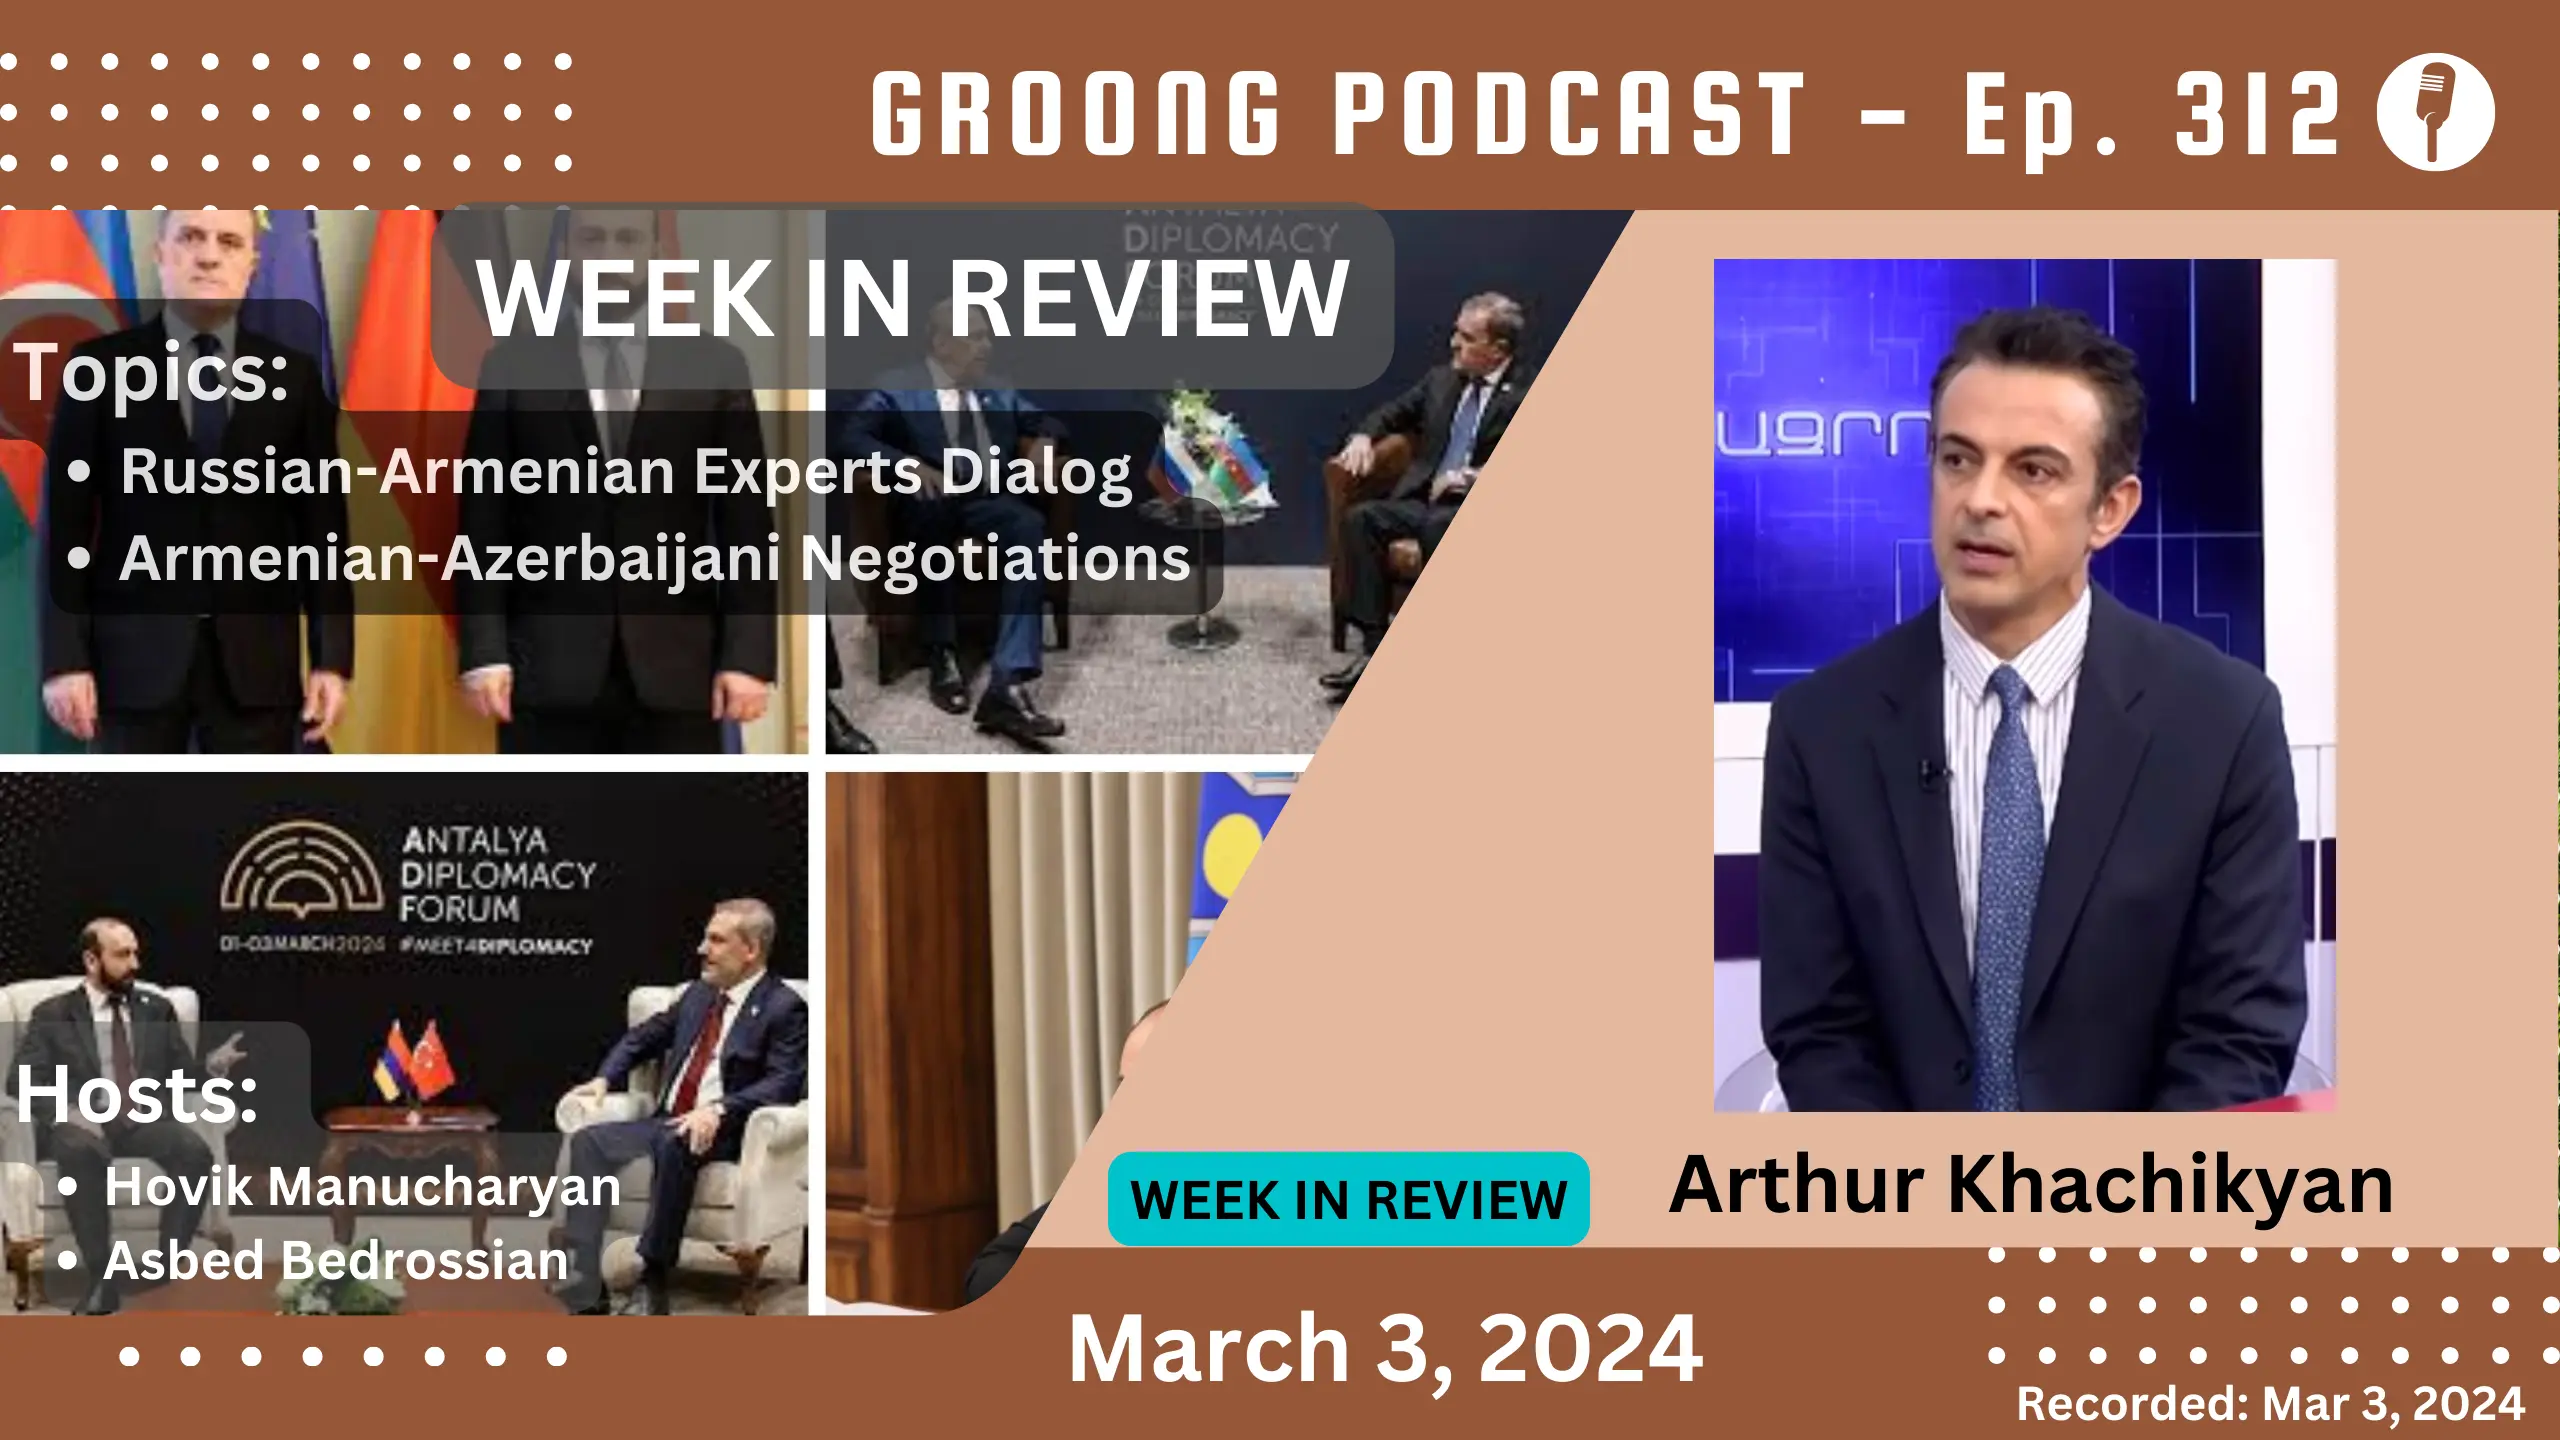
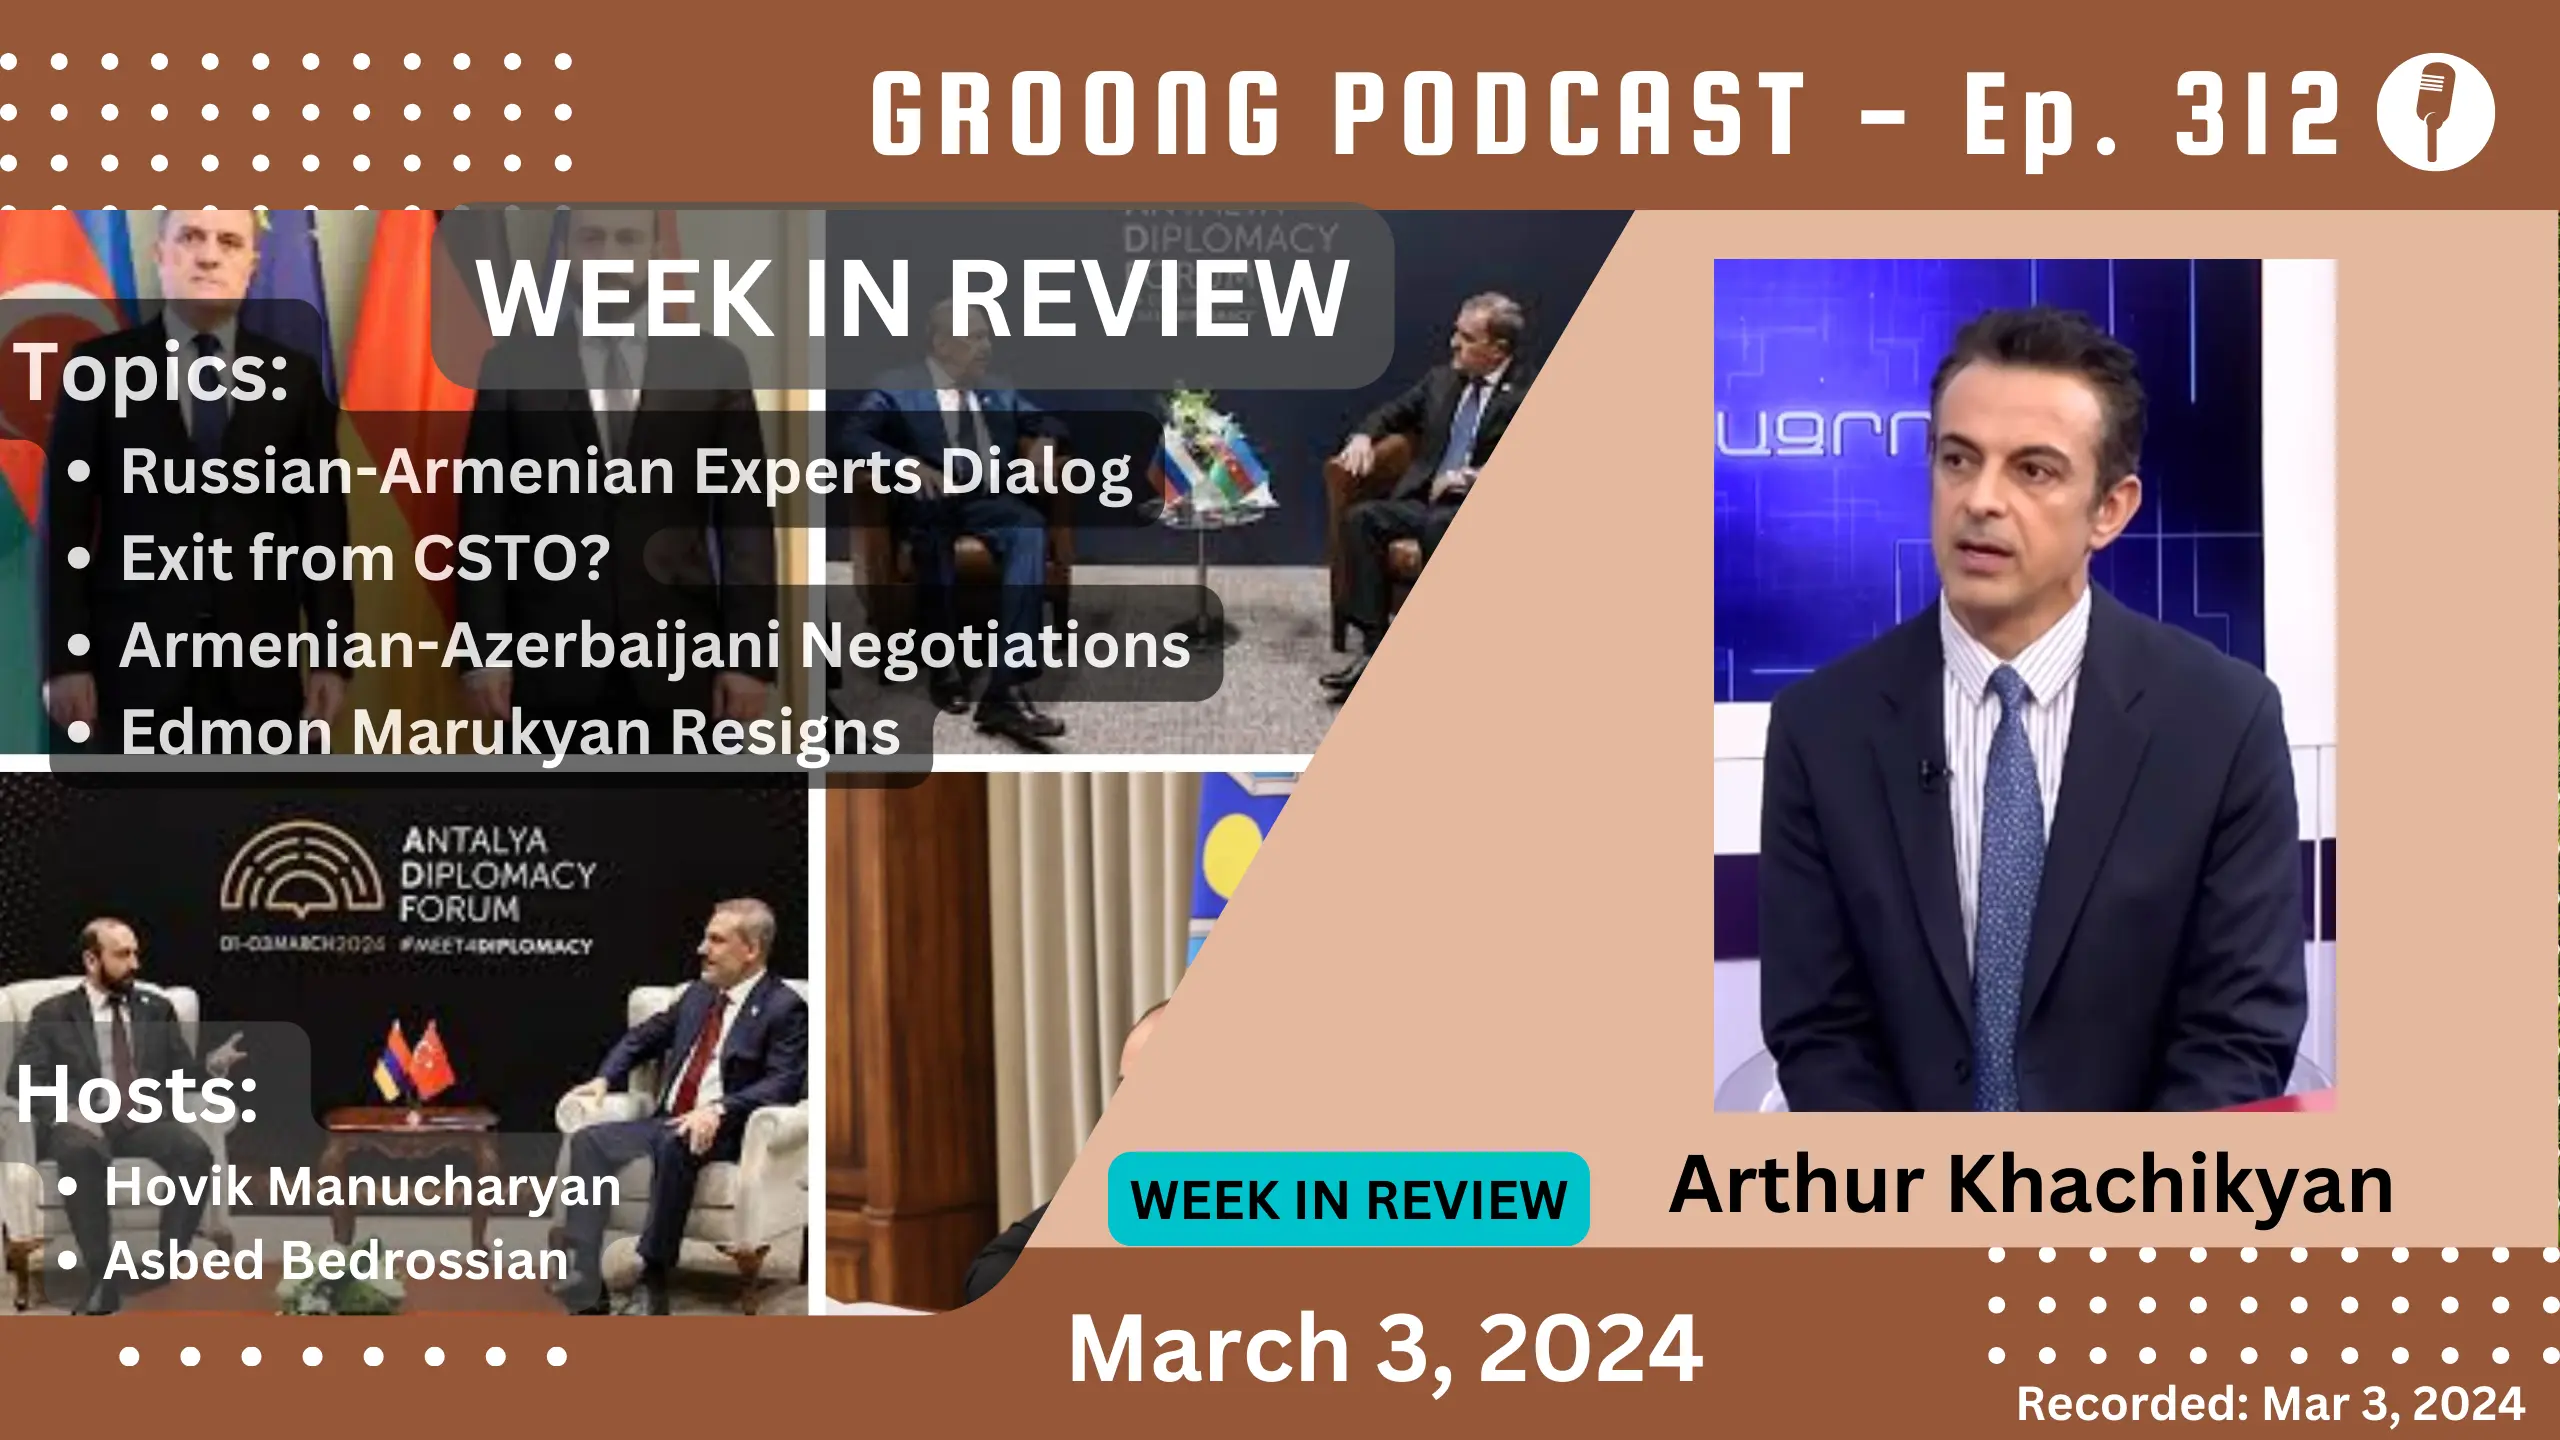
Content update ep 312

Changed region(s): [[0.0, 0.3438, 0.5, 0.5625]]

diff --git a/content/episode/312-arthur-khachikyan-russia-armenia-azerbaijan-relations-munich-antalya-turkey-normalization.md b/content/episode/312-arthur-khachikyan-russia-armenia-azerbaijan-relations-munich-antalya-turkey-normalization.md
@@ -23,7 +23,7 @@ explicit = "no"
 
 series = ["wir"]
 categories = ["Armenia", "Politics", "Poll"]
-tags = ["Armenian News", "Artsakh", "Nagorno Karabakh", "Azerbaijan", "Munich", "Antalya", "Turkey", "Arthur Khachikyan", "Ararat Mirzoyan", "Jeyhun Bayramov", "Sergei Lavrov", "Diplomacy Forum", "Negotiations", "Border", "Turkish Armenian Normalization"]
+tags = ["Armenian News", "Artsakh", "Nagorno Karabakh", "Azerbaijan", "Munich", "Antalya", "Turkey", "Arthur Khachikyan", "Ararat Mirzoyan", "Jeyhun Bayramov", "Sergei Lavrov", "Diplomacy Forum", "Negotiations", "Edmon Marukyan", "Vardan Ghukasyan", "Border", "Turkish Armenian Normalization", "Armenian Constitution", "Treaty", "Alexandropol", "Armenian Emigration", "Outmigration", "Le Figaro", "France", "Bastion", "APC", "Armored Personnel Carriers", "MI6", "CIA", "Richard Moore", "Georgia", "Kurds", "Fake Opposition", "Nikol Pashinyan", "Alen Simonyan"]
 
 Description = """
 
@@ -40,7 +40,87 @@ Episode 312 | Recorded: Mar 3, 2024"""
 
 +++
 
+## Expert Discussions on Russian - Armenian Relations
 
+Arthur last week we were talking with [Sergei Melkonian](https://podcasts.groong.org/guest/smelkonian) about the Russian-Armenian [experts dialogue](https://www.youtube.com/live/wZOA2IVtRmE?si=8Cb7dKrKOzCIfKAs) that was held in Yerevan on February 24, where Russian and Armenian experts discussed the state of relations between the two countries. You were also there, so we thought we’d ask you the same as we asked Sergei.
+
+**Question:**
+* What was your overall impression of the dialogue?
+
+According to some Russian experts on the panel, Russia is currently conducting a “damage control” policy with regard to Armenia. In other words, a passive policy. At the same time, some of the experts blamed Armenia for the worsening relations.
+
+**Questions:**
+* Were you able to detect any introspection by the Russians?
+* Do any of them accept that some of their own policies contributed to damaging the Armenian-Russian relationship?
+
+Sergei mentioned that Russian analysts generally agree that Russia’s decision to not support the Armenian opposition in 2021 was a mistake.
+
+**Question:**
+* Do you have more thoughts on that point that you can expand on?
+
+
+## Exit from CSTO?
+
+Just this past week, in [highly publicized comments](https://www.azatutyun.am/a/32841230.html) to the Armenian parliament, Pashinyan said that he was ready to pull out of the CSTO, and that the CSTO had become a “security threat” for Armenia. And to France24, he said that Russia [fomented unrest](https://www.azatutyun.am/a/32841177.html) in Armenia after the ethnic cleansing of Artsakh in September 2023, hoping to cause a regime change.
+
+**Questions:**
+* What’s the sense of the experts' about such comments?
+* If Armenia were to formally exit the CSTO, what are the immediate dangers facing us?
+
+
+## Armenian-Azerbaijani Negotiations
+
+This past week Mirzoyan met with Bayramov in Berlin. After two days of discussions, apparently [no results were achieved](https://www.azatutyun.am/a/32842781.html) and “open issues remain”. Azerbaijan is demanding  Armenian legislative and constitutional changes, and at least [in words](https://www.azatutyun.am/a/32844212.html), these are preconditions for signing an agreement.
+
+Pashinyan’s government, also at least in words, is rejecting this. Note that they are not saying that they’re not going to make the changes to the Armenian constitution which will meet Aliyev's demands, but they’re saying that their changes are not related to Aliyev’s demands.
+
+**Questions:**
+* Where do negotiations with Azerbaijan stand? What are the “open issues”, and why is nothing being achieved?
+* How high is the risk of war on Armenia?
+
+
+## Antalya Diplomatic Forum
+
+From Munich, both foreign ministers flew to Antalya for the annual diplomatic conference. Mirzoyan met with Turkish FM Hakan and reportedly discussed “normalization”.
+
+Turkey has made it clear that “normalization” won’t go forward until Armenian capitulates to Azeri demands. What I read in their statements is that until Armenia hands over Syunik to Azerbaijan and becomes a city-principality centered around Yerevan, nothing’s going to move. Yet Pashinyan’s government goes around in circles promising and “hoping” that progress will soon be made, and Turkey will open a land border with Armenia.
+
+**Questions:**
+* First of all: why? Do the Armenian people believe that an open Turkish border will be a panacea for something?
+* Whose agenda benefits from an open border with Turkey?
+
+In Antalya, Lavrov and Bayramov also met. Guess what they talked about? They highlighted their agreement about the importance of implementing the Nov. 2020 trilateral agreement. Certainly they are talking about point 9.
+
+There has been a systematic failure to implement that agreement from points 1 through 8. If I were the leader of Armenia I’d be responding that we can talk about point 9, right after points 1 through 8 are implemented. And this means putting 144 thousands Artsakhtsis back in their homes, opening the Lachin/Berdzor corridor, repatriating all Armenian POWs back to their families, and more.
+
+**Question:**
+* What’s an appropriate response to Russia and Azerbaijan about this trilateral agreement pressure?
+
+Earlier you said that Russia sees Turkey as a counter-balance to the west. The following [statement](https://radar.am/en/news/world-2618532138/) statement comes from Toivo Klaar, EU Special Representative for the South Caucasus, in Antalya: 
+
+
+    In addition to the involvement of the EU, we are also waiting for Turkey and its regional leadership to become involved. "Ankara can have a strong influence in opening communication channels in the region and asserting the role of its dominant power in the region,"
+
+**Questions**:
+* What should we make of this statement?
+* Is it reasonable for anyone today to question Turkey’s loyalties to the West and NATO?
+
+
+## Edmon Marukyan Resigns
+
+Since 2022 Edmon Marukyan has been an “ambassador-at-large” for Pashinyan. Most of what we see as output from him are tweets and statements that generally appear to be something Pashinyan wanted to say, but didn’t want it to come from the prime minister’s office. Despite the fact that Marukyan led the opposition **Bright Armenia** party, **Լուսավոր Հայաստան**, most observers do not consider him or the party a true opposition to Pashinyan.
+
+On Friday Marukyan [cited](https://www.azatutyun.am/a/32844042.html) “foreign policy differences” as the reason for parting ways with Pashinyan. He has not elaborated on what those differences are.
+
+**Questions:**
+* Is this a serious parting of ways, or could there be a more hidden agenda behind this resignation? For example I read a 168 article which was speculating the possibility of running for office in a presumed “early election”?
+* Can you guess what these “foreign policy differences” be? There haven’t been any notable changes in the Pashinyan administration’s foreign policy over the past year. Why at this time?
+
+
+## Topics from the Panelists
+* **Hovik**: Armenia’s suicidal behavior during Russia/West global crisis
+* **Arthur**: How will we pull ourselves out of this morass, who will step up?
+* **Asbed**: Edmon Marukyan, come on our show and explain your resignation
 
 
 # Wrap-up
